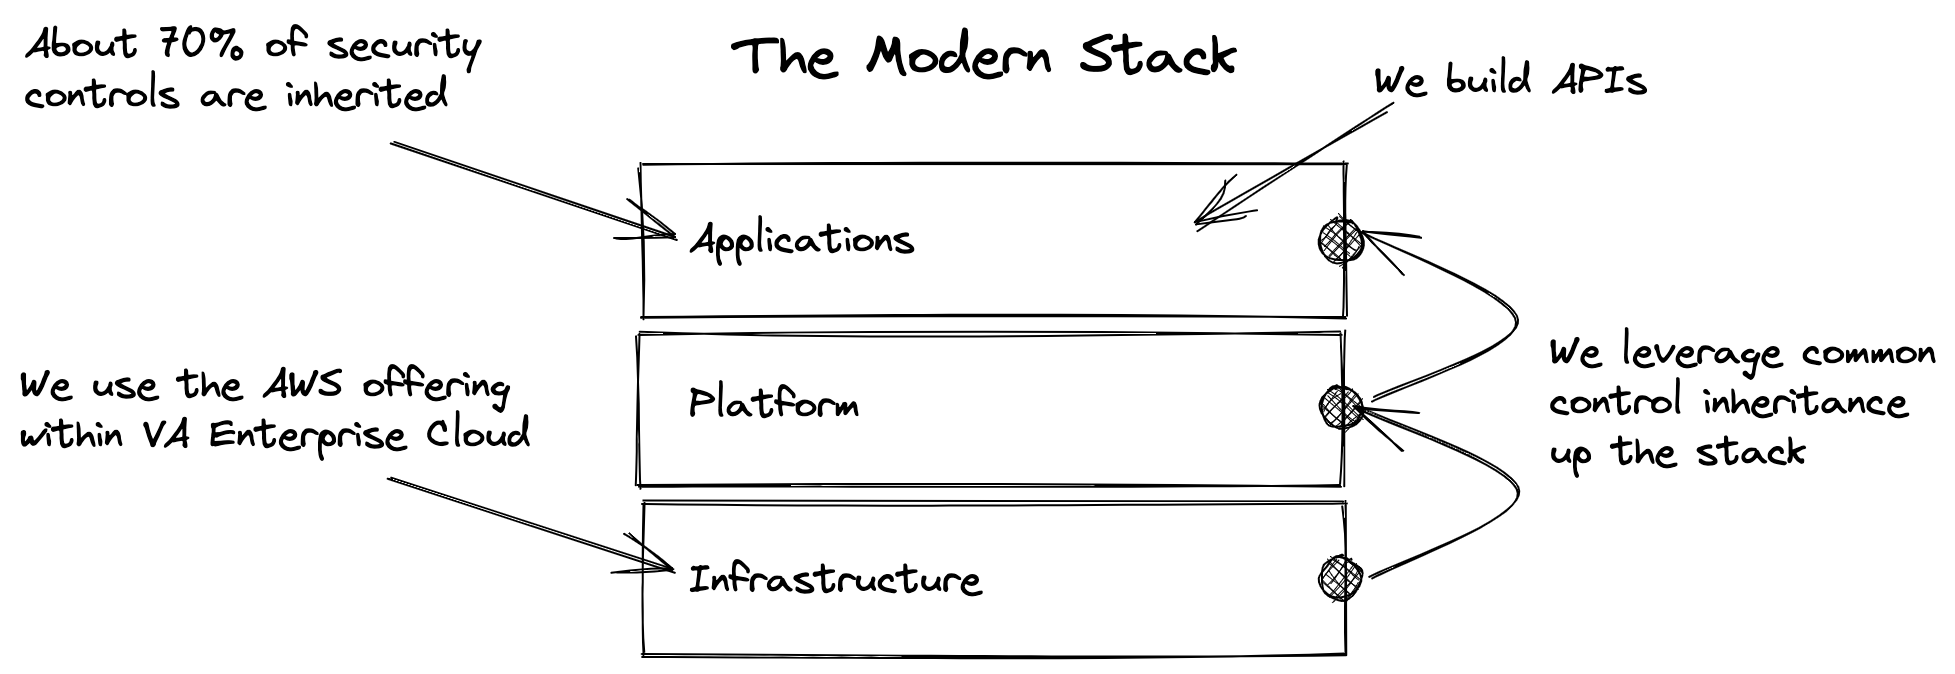
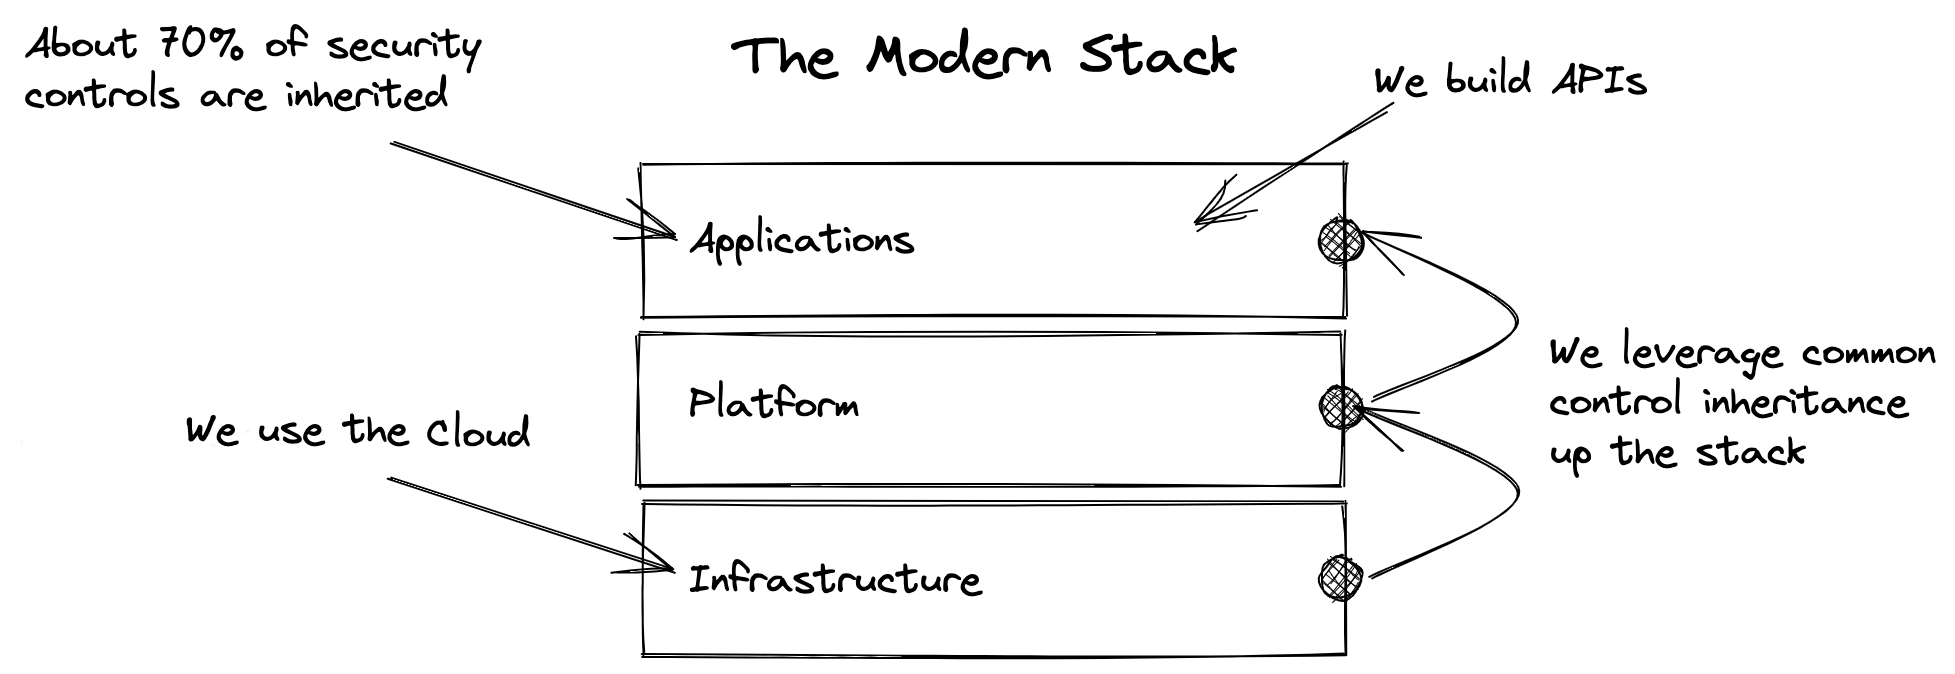
fix architecture graphic and auth boundary

Changed region(s): [[0.0, 0.6231, 0.2184, 0.6855], [0.0, 0.5297, 0.2808, 0.592]]

diff --git a/docs/approach.md b/docs/approach.md
@@ -15,8 +15,12 @@ We leverage a modern architecture that allows us to build, deploy and monitor ou
 
 <br/>
 
+![Technology Stack!](images/architecture.png "Technology Stack")
+
+<br/>
+
 ## Ongoing Authorization Boundary
-Our LHDI Ongoing Authorization Boundary (also known as Accountability Boundary) and approach to performing continuous Authority to Operate (cATO), covers the LHDI Platform, LHDI SecRel Pipeline, custom VA Applications/Products deployed onto the platform, as well as any Commercial Off The Shelf (COTS) software that supports the operations of the LHDI Platform or LHDI SecRel Pipeline (ie Auth0, Snyk, Aqua and SD Elements). All COTS software that is SaaS-based, has completed the necessary accredidation for Federal Risk and Authorization Management Program (FedRAMP). All COTS software that is container-based, has been accepted for use via the VA [Technical Reference Model (TRM)](https://oit.va.gov/Services/TRM/TRMHomePage.aspx) process.  Until the Digital Transformation Center (DTC) has secured an ATO for Saas products (Auth0 and Synk), the Lighthouse AO has accepted the risk of leveraging these solutions within our Ongoing Authorization boundary. These solutions would fall outside of the Ongoing Authorization boundary scope once they are ATO'd. Both [Github](https://www.oit.va.gov/marketplace/product/details/get/github) and [Datadog](https://www.oit.va.govmarketplace/product/details/get/datadog) have been previously authorized by the VA.
+The platform's Ongoing Authorization Boundary (also known as the *Accountability Boundary*) and approach to performing continuous Authority to Operate (cATO) covers the platform, secure release pipeline, custom applications/products deployed onto the platform, as well as any Commercial Off The Shelf (COTS) software that supports the operations of the platform or secure release pipeline (ie Auth0, Snyk, Aqua and SD Elements). All COTS software that is SaaS-based must complete the necessary accreditation for Federal Risk and Authorization Management Program (FedRAMP). All COTS software that is container-based should be accepted for use via an agency's [Technical Reference Model (TRM)](https://csrc.nist.gov/glossary/term/technical_reference_model) process.
 
 <br/>
 
@@ -24,7 +28,7 @@ Our LHDI Ongoing Authorization Boundary (also known as Accountability Boundary) 
 
 <br/>
 
-## SecRel Pipeline Capabilities
+## Secure Release Pipeline Capabilities
 [Continuous integration](https://www.martinfowler.com/articles/continuousIntegration.html) pipelines ensure that Application Development Teams can deliver frequent changes of software into production quickly and safely. Within the Lighthouse Program, app teams have the flexibility to build, test and deploy using whatever strategy is best suited for their product(s). However, before teams can deploy to the LHDI Platform, they must be registered to, and call our, [Secure Release Pipeline (SecRel)](https://department-of-veterans-affairs.github.io/lighthouse-tornado). 
 
 This pipeline service is only available to software development teams that are customers of the LHDI platform. SecRel enables security vulnerability detection and remediation guidance every time an engineer commits code changes to their teams repository. Upon each commit, the app team is receiving immediate feedback on security vulnerabilities for Static Application Security Testing (SAST), Software Composition Analysis (SCA) for open source packages, as well as vulnerabilities that exist within Image(s)/Container(s) being leveraged by the application. Our SecRel Pipeline enforces [policies](policy.md) as gatecheck jobs, that must be adhered to in order for teams to achieve a [digitally signed](https://csrc.nist.gov/glossary/term/digital_signature) application image. Only images signed by the SecRel Pipeline are allowed onto the LHDI Platform, and are validated by the platform prior to deployment.
